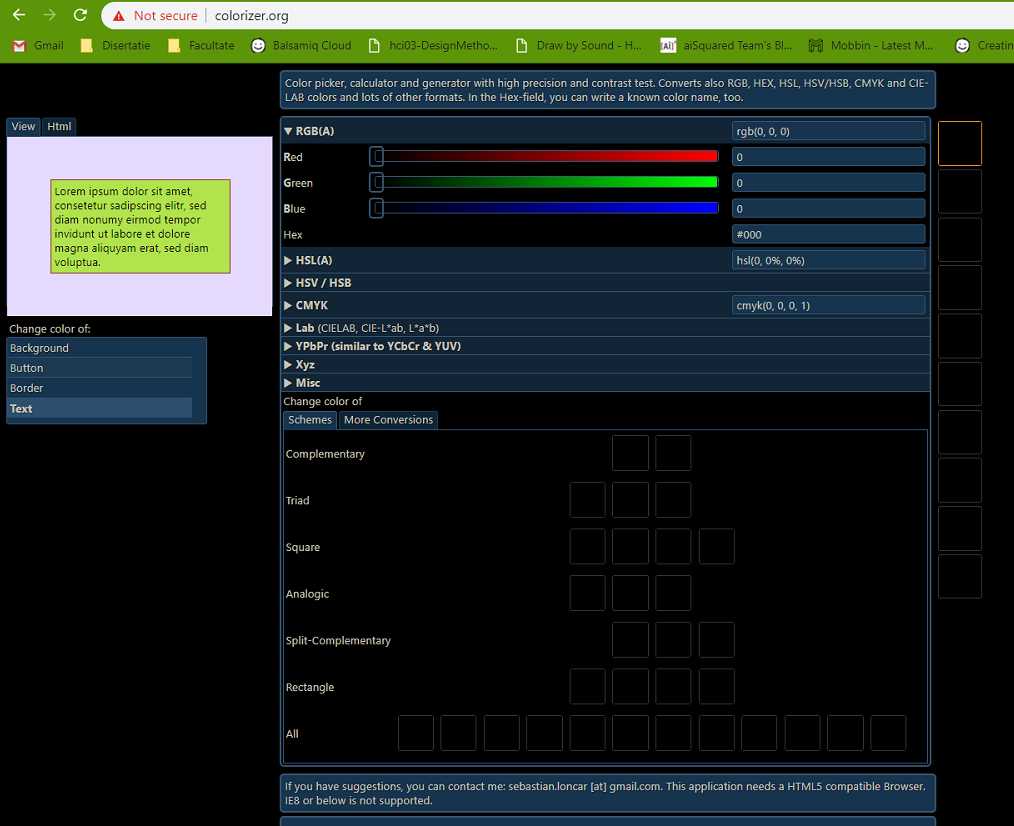
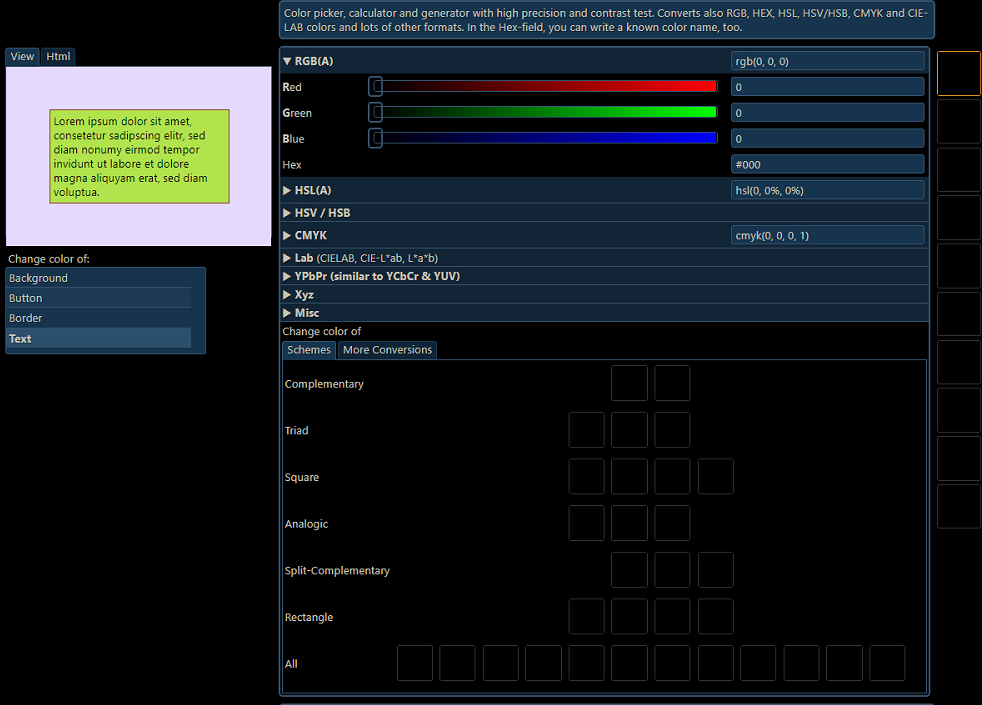
Modified different things

diff --git a/index.html b/index.html
@@ -188,26 +188,33 @@
 			</figure>
 			<p>In order to build and define the identity of our application we have set a representative color that will remain in the minds of the users. Starting from the green color, we chose the Complementary pattern and we began to define the representative colors of the application.</p>
 			<p>To achieve this goal we used the colorizer.org application that suggests the color palette of each design pattern</p>
+			<p>We chose the colors usingthe compelementary method, thus, the collors as as follows</p>
+			<ul>
+				<li>Background: (242,254,217) and complementary being: (229,217,254)</li>
+				<li>Buttons: (177,227,77) and complementary being: (127,77,227)</li>
+				<li>Border: (140,59,59) and complementary being: (59,140,140)</li>
+				<li>Text: (0,0,0) and complementary being: (0,0,0)</li>
+			</ul>
 			<figure typeof="sa:Image">
-			<embed src="scholarly/Photos/background-colors.png" class="pallete" width="500px" height="200px">
+			<embed src="scholarly/Photos/background-colors.png" class="pallete" width="400px" height="300px">
 			<figcaption>
 				<p class="pallete-subtitle">Background Color( figure 6 )</p>
 			  </figcaption>
 			</figure>
 		    <figure typeof="sa:Image">	
-			<embed src="scholarly/Photos/button-colors.png" class="pallete" width="500px" height="200px">
+			<embed src="scholarly/Photos/button-colors.png" class="pallete" width="400px" height="300px">
 			  <figcaption>
 				<p class="pallete-subtitle">Button Color( figure 6 )</p>
 			  </figcaption>
 			</figure>
 				<figure typeof="sa:Image">	
-			<embed src="scholarly/Photos/border-color.png" class="pallete" width="500px" height="200px">
+			<embed src="scholarly/Photos/border-color.png" class="pallete" width="400px" height="300px">
 			  <figcaption>
 				<p class="pallete-subtitle">Border Color( figure 6 )</p>
 			  </figcaption>
 			</figure>
 			<figure typeof="sa:Image">
-			  <embed src="scholarly/Photos/text-color.png" class="pallete" width="500px" height="200px">
+			  <embed src="scholarly/Photos/text-color.png" class="pallete" width="400px" height="300px">
 			  <figcaption>
 				<p class="pallete-subtitle">Text Color( figure 6 )</p>
 			  </figcaption>
@@ -299,19 +306,19 @@
 				with the system are described as seen below.
 			</p>
 			<figure typeof="sa:Image">
-			<embed src="scholarly/Photos/QOC1.PNG" width="700px" height="300px">
+			<embed src="scholarly/Photos/QOC1.PNG" width="700px" height="250px">
 			<figcaption>
 				<p>QOC ( version 1 )</p>
 			  </figcaption>
 			</figure>
 			<figure typeof="sa:Image">
-			<embed src="scholarly/Photos/QOC2.PNG" width="700px" height="300px">
+			<embed src="scholarly/Photos/QOC2.PNG" width="700px" height="250px">
 			<figcaption>
 				<p>QOC ( version 2 )</p>
 			  </figcaption>
 			</figure>
 			<figure typeof="sa:Image">
-			<embed src="scholarly/Photos/QOC3.PNG" width="700px" height="300px">
+			<embed src="scholarly/Photos/QOC3.PNG" width="700px" height="250px">
 			<figcaption>
 				<p>QOC ( version 3 )</p>
 			  </figcaption>
@@ -322,10 +329,8 @@
 		<h1>9 Conclusion
 		</h1>
 		<p>
-			To conclude the technical paper, BeGs` takes advantage of many modern technologies mentioned above
-			( i.e : <a property="schema:citation" href="http://microservices.io/">Microservices</a>,
-			<a property="schema:citation" href="https://www.w3.org/TR/owl-features/">OWL</a> and so on )
-			in order to create a smart extensible application.
+			To conclude, BeGs is a new idea, aimed to change shopping behavior
+			and improve peoples lives.
 		</p>
 		</section>
 

diff --git a/persona/ServedPersona.html b/persona/ServedPersona.html
@@ -18,11 +18,6 @@
         <div class="personaInfo">
             <h3>Type: Served</h3>
             <figure>
-			<figure typeof="sa:Image">
-			<embed src="./persona_files/normalperson.png" width="150px" height="150px">
-			<figcaption>
-			  </figcaption>
-			</figure>
                 <img itemprop="image" src="./persona_files/normalperson.png" width="150px" height="150px"
                      alt="persona image">
             </figure>
@@ -50,7 +45,7 @@
                 <div class="leftGroup">
                     <h5>Main Points</h5>
                     <p>Dorian Popescu is a 44-year-old man. He has secondary education and a waiter specialization. In
-                        her free time he likes to use social networks, watch tv, hang out with friends and play on the phone.</p>
+                        his free time he likes to use social networks, watch tv, hang out with friends and play on the phone.</p>
                     <ul>
                         <li><strong>Experience with certain products;</strong><br>
                             He has recently learned to use a smartwatch and is always trying to keep up with the latest
@@ -126,8 +121,6 @@
                     country and abroad. He believes that the diversity of flavors he
                     puts in food offers a special taste. Dorian has a personal blog posting his preparations.</p>
                 <ul>
-                    <li><strong>Practical Goals like:</strong><br>
-                    </li>
                     <li><strong>Personal Goals like:</strong><br>
 					He wants to reduce his personal financial costs and be as familiar with product marketing applications as possible. He thinks these apps can help him make quality content on his blog because he has the opportunity to buy various products.
                     </li>
@@ -146,7 +139,20 @@
                     </li>
                 </ul>
                 <h5>References</h5>
-                ?
+                <ul>
+                    <li>Fluid <a href="http://wiki.fluidproject.org/display/fluid/Personas">Personas</a>;</li>
+                    <li>An introduction to personas and <a href="http://www.steptwo.com.au/papers/kmc_personas">how to
+                        create them</a>;
+                    </li>
+                    <li itemscope="" itemtype="http://schema.org/Book"><span itemprop="name"><a
+                            href="http://www.amazon.com/Persona-Lifecycle-Throughout-Interactive-Technologies/dp/0125662513/ref=pd_bbs_sr_1?ie=UTF8&amp;s=books&amp;qid=1240423894&amp;sr=8-1"
+                            class="external-link" rel="nofollow">The Persona Lifecycle, Keeping People in Mind Throughout Product Design</a></span>,
+                        <span itemprop="author">John Pruitt &amp; Tamara Adlin</span>;
+                    </li>
+                    <li>This version of Personas Template includes microdata markup using <a
+                            href="https://profs.info.uaic.ro/~stefan.negru/personas/schema.org/">schema.org Schemas</a>.
+                    </li>
+                </ul>
             </div>
         </div>
         <div class="personaScenarios">
@@ -159,10 +165,6 @@
             <p>3. Be in trend with social life as he would get recommendations of products that her
                 friends buy.</p>
             <p></p>
-        </div>
-        <div class="otherDetails">
-            <h5>Other Details</h5>
-            <p>Other details regarding this persona.</p>
         </div>
     </article>
 </section>

diff --git a/persona/SecondaryPersona.html b/persona/SecondaryPersona.html
@@ -49,7 +49,6 @@
                         <li><strong>Dislikes about certain aspects:</strong></li>
                             <p>Dislikes apps that are not intuitive</p>
                             <p>Hates waiting for loading of screens</p>
-                        <li><strong>Disabilities relevant to our research:</strong><br> No</li>
                         <li><strong>Working environment:</strong></li>
                             <p>He is a student and does not work but he constantly
                                 takes classes and makes homework, he tries to be as professional
@@ -67,7 +66,6 @@
                     <h5>Goals</h5>
                     <p>Goals are the reasons users perform tasks, not the tasks.</p>
                     <ul>
-                        <li><strong>Practical Goals:</strong></li>
                         <li><strong>Personal Goals:</strong><br>He takes care of his diet, tries as much as possible to balance it and find cheap solutions</li>
                         <li><strong>Business Goals:</strong><br>He's accustomed to blogging or vlogging about people's opinions about new applications on the market. He usually also tests these products.</li>
                     </ul>
@@ -79,10 +77,6 @@
                         <li><strong>UI, Interaction, User Experience;</strong><br>
                         He is quite familiar with mobile applications.
 						</li>
-                        <li><strong>Dislikes relevant to the research;</strong><br>
-                        </li>
-                        <li><strong>Disabilities;</strong><br>
-                        </li>
                         <li><strong>Unreliability of the product;</strong><br>
 						Being interested in popularity is the possibility to feel insecure in using the application's option - the social network. This option could give too much information to people with whom it is connected what he would not like.
                         </li>
@@ -103,7 +97,6 @@
                     computer games. The phone is an indispensable device in its routine. In his spare time practicing sports, he goes to football and the gym.</strong></p>
 
                 <ul>
-                    <li><strong>Practical Goals like:</strong> </strong></li>
                     <li><strong>Personal Goals like:</strong> not feeling stupid (the product insults the user), getting
                         an adequate amount of work done, having fun;
                     </li>
@@ -139,11 +132,8 @@
         </div>
         <div class="personaScenarios">
             <h5>Scenarios</h5>
-        <p>1. He has the opportunity to keep in touch with the community of people watching him. Can create different group activities through the application social network. </p>
-        </div>
-        <div class="otherDetails">
-            <h5>Other Details</h5>
-            <p>Other details regarding this persona.</p>
+			<p>1. He has the opportunity to keep in touch with what his friends buy and what is in trend at the moment by using the social recommendations page.</p>
+			<p>2. He can use the products recommendations in order to buy the best products suited to his needs.</p>
         </div>
     </article>
 </section>

diff --git a/persona/SecondaryPersona2.html b/persona/SecondaryPersona2.html
@@ -93,13 +93,8 @@
                         </li>
                         <li><strong>Disabilities;</strong><br>
 						He wears glasses, and when he does not have it, he may not be able to use the application easily</li>
-                        <li><strong>Unreliability of the product;</strong> <br>
-						Because his profession is not technological, he is more retiring in adapting</li>
                         <li><strong>Difficulties in completing tasks;</strong> <br>
-						The application suggests different features it is difficult to adapt until it gets used to it</li>
-                        <li><strong>Problems with the product:</strong> <br>
-                         When presenting the application to a patient, it may be blocking or working harder.
-                        </li>
+						The application suggests different features it is difficult to adapt until it gets used to it</li>                     
                     </ul>
                 </div>
             </div>
@@ -133,9 +128,20 @@
                     </li>
                     <li><strong>Frequency of use;</strong><br>He uses the above mentioned apps every day.</li>
                 </ul>
-                <h5>References</h5>
+				<h5>References</h5>
                 <ul>
-                   ?
+                    <li>Fluid <a href="http://wiki.fluidproject.org/display/fluid/Personas">Personas</a>;</li>
+                    <li>An introduction to personas and <a href="http://www.steptwo.com.au/papers/kmc_personas">how to
+                        create them</a>;
+                    </li>
+                    <li itemscope="" itemtype="http://schema.org/Book"><span itemprop="name"><a
+                            href="http://www.amazon.com/Persona-Lifecycle-Throughout-Interactive-Technologies/dp/0125662513/ref=pd_bbs_sr_1?ie=UTF8&amp;s=books&amp;qid=1240423894&amp;sr=8-1"
+                            class="external-link" rel="nofollow">The Persona Lifecycle, Keeping People in Mind Throughout Product Design</a></span>,
+                        <span itemprop="author">John Pruitt &amp; Tamara Adlin</span>;
+                    </li>
+                    <li>This version of Personas Template includes microdata markup using <a
+                            href="https://profs.info.uaic.ro/~stefan.negru/personas/schema.org/">schema.org Schemas</a>.
+                    </li>
                 </ul>
             </div>
         </div>
@@ -143,10 +149,6 @@
             <h5>Scenarios</h5>
             <p>1.He can keep in touch with his patients and monitor what foods they buy. </p>
             <p>2.When the shopping list is made, it will suggest the best prices and where to buy from local producers to stimulate local economy and avoid crowded supermarkets </p>
-        </div>
-        <div class="otherDetails">
-            <h5>Other Details</h5>
-            <p>?</p>
         </div>
     </article>
 </section>

diff --git a/persona/PersonasPrimary.html b/persona/PersonasPrimary.html
@@ -80,7 +80,6 @@
                         <li><strong>UI, Interaction, User Experience;</strong>
 						<br> Due to its previous experience with a variety of software products, it will be easy to accommodate it with a new interface</li>
 						
-                        <li><strong>Dislikes relevant to the research;</strong></li>
                         <li><strong>Disabilities;</strong><br> There are issues to be mentioned</li>
                         <li><strong>Unreliability of the product;</strong><br> May be reserved for the personal data that it provides.She might think that personal data is being processed by other operators.</li>
                         <li><strong>Difficulties in completing tasks;</strong><br>Due to previous experience, there is a small chance of experiencing such difficulties</li>
@@ -123,7 +122,18 @@
                 </ul>
                 <h5>References</h5>
                 <ul>
-                    ?
+                    <li>Fluid <a href="http://wiki.fluidproject.org/display/fluid/Personas">Personas</a>;</li>
+                    <li>An introduction to personas and <a href="http://www.steptwo.com.au/papers/kmc_personas">how to
+                        create them</a>;
+                    </li>
+                    <li itemscope="" itemtype="http://schema.org/Book"><span itemprop="name"><a
+                            href="http://www.amazon.com/Persona-Lifecycle-Throughout-Interactive-Technologies/dp/0125662513/ref=pd_bbs_sr_1?ie=UTF8&amp;s=books&amp;qid=1240423894&amp;sr=8-1"
+                            class="external-link" rel="nofollow">The Persona Lifecycle, Keeping People in Mind Throughout Product Design</a></span>,
+                        <span itemprop="author">John Pruitt &amp; Tamara Adlin</span>;
+                    </li>
+                    <li>This version of Personas Template includes microdata markup using <a
+                            href="https://profs.info.uaic.ro/~stefan.negru/personas/schema.org/">schema.org Schemas</a>.
+                    </li>
                 </ul>
             </div>
         </div>
